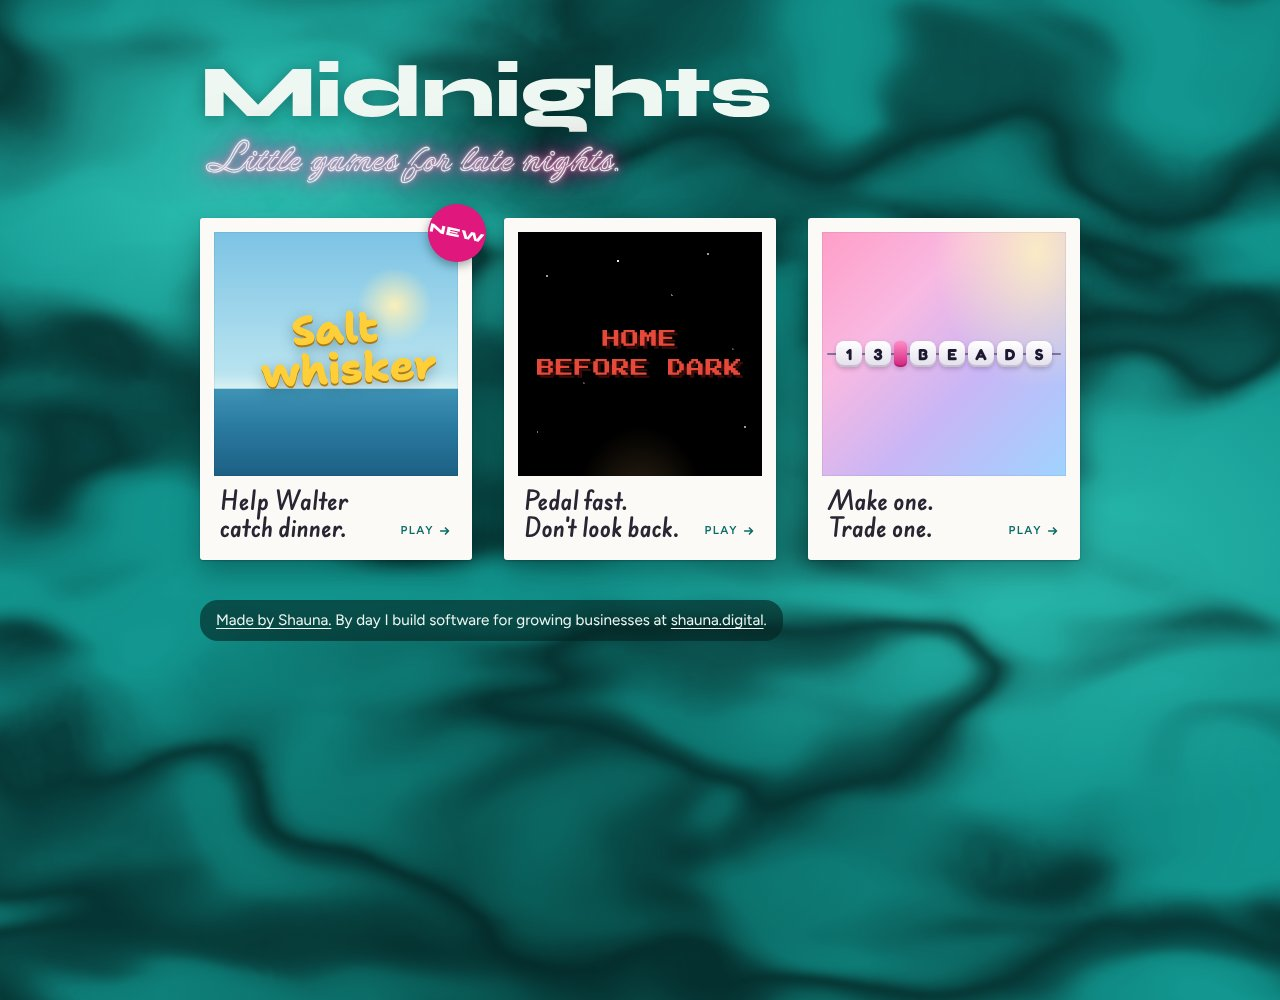
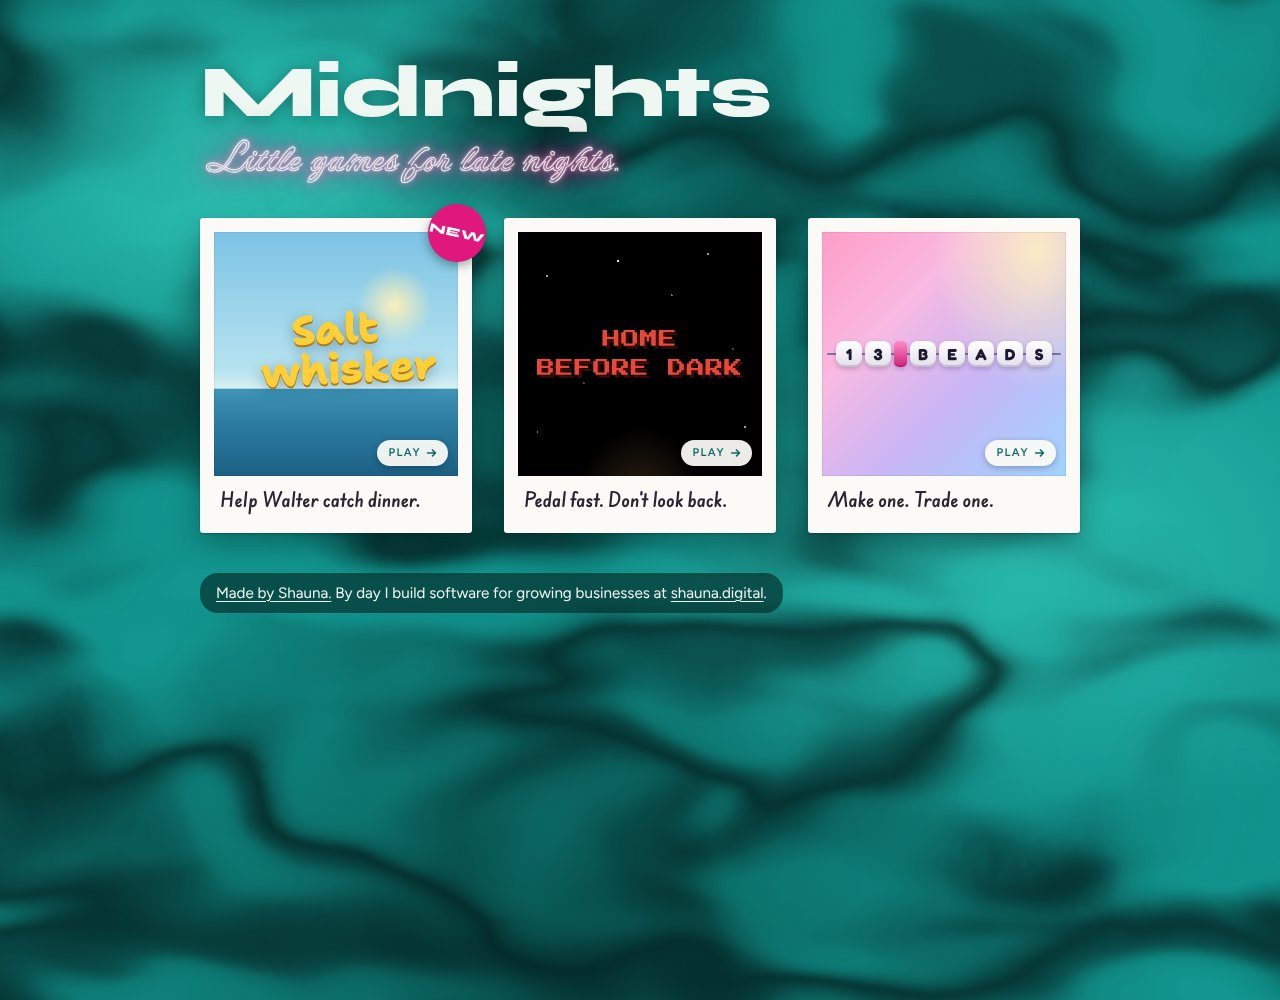
Smaller one-line captions; Play cue moves to a pill on each photo

diff --git a/index.html b/index.html
@@ -92,9 +92,10 @@
       font: 700 16px/1 var(--display); color: #1c1830; background: linear-gradient(#ffffff, #e4dfec);
       box-shadow: inset 0 -2px 0 rgba(0, 0, 0, .14), 0 2px 4px rgba(60, 30, 90, .25); }
     .mark span.dot { width: 13px; border-radius: 5px; background: linear-gradient(#ff8cc6, #d3217c); }
-    .caption { padding: 12px 6px 18px; display: flex; align-items: flex-end; justify-content: space-between; gap: 12px; flex: 1; }
-    .caption p { margin: 0; font: 600 1.3rem/1.3 var(--hand); color: var(--photo-ink); }
-    .play { display: inline-flex; align-items: center; gap: 4px; flex-shrink: 0; padding-bottom: 4px; font: 600 .72rem/1 var(--body); letter-spacing: .12em; text-transform: uppercase; color: #0b6b66; }
+    .caption { padding: 14px 6px 22px; display: flex; align-items: center; flex: 1; }
+    /* One line, sized so the longest teaser fits the narrowest card (about 210px of caption). */
+    .caption p { margin: 0; font: 600 1rem/1.3 var(--hand); color: var(--photo-ink); white-space: nowrap; }
+    .play { position: absolute; right: 10px; bottom: 10px; display: inline-flex; align-items: center; gap: 4px; padding: 6px 9px 6px 11px; border-radius: 999px; background: rgba(251, 250, 246, .94); box-shadow: 0 2px 6px rgba(0, 0, 0, .25); font: 600 .7rem/1 var(--body); letter-spacing: .12em; text-transform: uppercase; color: #0b6b66; }
     .play svg { transition: transform .18s ease; }
     a.card:hover .play svg, a.card:focus-visible .play svg { transform: translateX(3px); }
     .sticker { position: absolute; top: -14px; right: -14px; z-index: 1; width: 58px; height: 58px; border-radius: 50%; display: grid; place-items: center;
@@ -137,10 +138,10 @@
           <span class="sticker" aria-hidden="true">New</span>
           <div class="art art-salt" aria-hidden="true">
             <p class="salt-title"><span>Salt</span><span>whisker</span></p>
+            <span class="play">Play <svg viewBox="0 0 16 16" width="14" height="14"><path d="M3 8h9M8.5 4.5 12 8l-3.5 3.5" fill="none" stroke="currentColor" stroke-width="1.8" stroke-linecap="round" stroke-linejoin="round"/></svg></span>
           </div>
           <div class="caption" aria-hidden="true">
-            <p>Help Walter<br>catch dinner.</p>
-            <span class="play">Play <svg viewBox="0 0 16 16" width="14" height="14"><path d="M3 8h9M8.5 4.5 12 8l-3.5 3.5" fill="none" stroke="currentColor" stroke-width="1.8" stroke-linecap="round" stroke-linejoin="round"/></svg></span>
+            <p>Help Walter catch dinner.</p>
           </div>
         </a>
       </li>
@@ -148,10 +149,10 @@
         <a class="card" href="/homebeforedark/" aria-label="Home Before Dark. Pedal fast. Don't look back.">
           <div class="art art-night" aria-hidden="true">
             <p class="night-title"><span>HOME</span><span>BEFORE DARK</span></p>
+            <span class="play">Play <svg viewBox="0 0 16 16" width="14" height="14"><path d="M3 8h9M8.5 4.5 12 8l-3.5 3.5" fill="none" stroke="currentColor" stroke-width="1.8" stroke-linecap="round" stroke-linejoin="round"/></svg></span>
           </div>
           <div class="caption" aria-hidden="true">
-            <p>Pedal fast.<br>Don't look back.</p>
-            <span class="play">Play <svg viewBox="0 0 16 16" width="14" height="14"><path d="M3 8h9M8.5 4.5 12 8l-3.5 3.5" fill="none" stroke="currentColor" stroke-width="1.8" stroke-linecap="round" stroke-linejoin="round"/></svg></span>
+            <p>Pedal fast. Don't look back.</p>
           </div>
         </a>
       </li>
@@ -159,10 +160,10 @@
         <a class="card" href="/13-beads/" aria-label="13 Beads. Make one. Trade one.">
           <div class="art" aria-hidden="true">
             <div class="mark"><span>1</span><span>3</span><span class="dot"></span><span>B</span><span>E</span><span>A</span><span>D</span><span>S</span></div>
+            <span class="play">Play <svg viewBox="0 0 16 16" width="14" height="14"><path d="M3 8h9M8.5 4.5 12 8l-3.5 3.5" fill="none" stroke="currentColor" stroke-width="1.8" stroke-linecap="round" stroke-linejoin="round"/></svg></span>
           </div>
           <div class="caption" aria-hidden="true">
-            <p>Make one.<br>Trade one.</p>
-            <span class="play">Play <svg viewBox="0 0 16 16" width="14" height="14"><path d="M3 8h9M8.5 4.5 12 8l-3.5 3.5" fill="none" stroke="currentColor" stroke-width="1.8" stroke-linecap="round" stroke-linejoin="round"/></svg></span>
+            <p>Make one. Trade one.</p>
           </div>
         </a>
       </li>

diff --git a/CLAUDE.md b/CLAUDE.md
@@ -5,7 +5,7 @@ The home page for https://games.shauna.digital. Read `README.md`: it explains th
 - Plain static site: `index.html` and `vercel.json`. No build step.
 - Repository `shaunagits/games`, Vercel project `games`, team `shaunagits-projects`. Every push to `main` deploys to production.
 - Current design (updated 2026-10-11): title "Midnights" (Syne), neon tagline "Little games for late nights." that flickers, straight (untilted) polaroid game cards on a marbled teal background drawn in code (original, inspired by a teal marbled vinyl photo; the photo and its label are not used), teal polaroid tab icon. Each card's photo is the game's own title treatment: 13 Beads is its full bead wordmark (1 3, pink bead, B E A D S on a string, copied from the game's header), Home Before Dark is Press Start 2P, Saltwhisker is Shantell Sans in sou'wester yellow over a soft sea.
-- Cards (2026-10-11): newest game first with a pink "New" sticker (move it when a new game lands). Under each photo is a two-line handwritten teaser in Edu SA Hand (no game name; the name is in the link's aria-label) and an always-visible "Play" cue. Teasers chosen by Shauna: Saltwhisker "Help Walter / catch dinner." (Walter is the cat), Home Before Dark "Pedal fast. / Don't look back.", 13 Beads "Make one. / Trade one." Keep new captions in that style. A "Still developing." polaroid (slow fog) for the next game exists but is hidden in an HTML comment (Shauna, 2026-10-11); restore it to tease a game.
+- Cards (2026-10-11): newest game first with a pink "New" sticker (move it when a new game lands). Under each photo is a one-line handwritten teaser in Edu SA Hand at 1rem (no game name; the name is in the link's aria-label). It must fit on one line on the narrowest card (about 210px of caption), so keep teasers to about 28 characters. An always-visible "Play" pill sits in the photo's bottom-right corner. Teasers chosen by Shauna: Saltwhisker "Help Walter catch dinner." (Walter is the cat), Home Before Dark "Pedal fast. Don't look back.", 13 Beads "Make one. Trade one." Keep new captions in that style. A "Still developing." polaroid (slow fog) for the next game exists but is hidden in an HTML comment (Shauna, 2026-10-11); restore it to tease a game.
 - Footer, on a soft dark band so the light text passes contrast: "Made by Shauna." (links to https://shauna.dev) plus "By day I build software for growing businesses at shauna.digital" (links to https://shauna.digital).
 - The page description is "Little games for late nights. Made by Shauna." Link previews use og:title "Midnights: little games for late nights" and `og.png` (1200 by 630, the three cards on marble). Regenerate `og.png` when the cards change.
 - Vercel builds one project at a time for this account; a stuck build on another project (for example faf-app) blocks deploys here. Check the queue before assuming a push failed.

diff --git a/README.md b/README.md
@@ -41,7 +41,7 @@ Little browser games for late nights. This repository is the home page that ties
 ## Things to know
 
 - A game saves player data per web address. Data saved at a game's own `vercel.app` address does not appear at `games.shauna.digital/<path>`.
-- Home page design (updated 2026-10-11): title "Midnights" in Syne, a flickering pink neon tagline "Little games for late nights." (Neonderthaw), straight polaroid game cards with handwritten teasers (Edu SA Hand) and a "Play" cue, newest game first with a "New" sticker, a hidden "Still developing." card ready for the next game, on a marbled teal background drawn in code. Colors and fonts are defined at the top of the `<style>` block in `index.html`.
+- Home page design (updated 2026-10-11): title "Midnights" in Syne, a flickering pink neon tagline "Little games for late nights." (Neonderthaw), straight polaroid game cards with one-line handwritten teasers (Edu SA Hand) and a "Play" pill on each photo, newest game first with a "New" sticker, a hidden "Still developing." card ready for the next game, on a marbled teal background drawn in code. Colors and fonts are defined at the top of the `<style>` block in `index.html`.
 - Link previews: `og.png` (1200 by 630) plus Open Graph and Twitter card tags in the page head. Regenerate the image when the cards change.
 - All artwork is original. No artist names, logos, album artwork, or lyrics.
 
